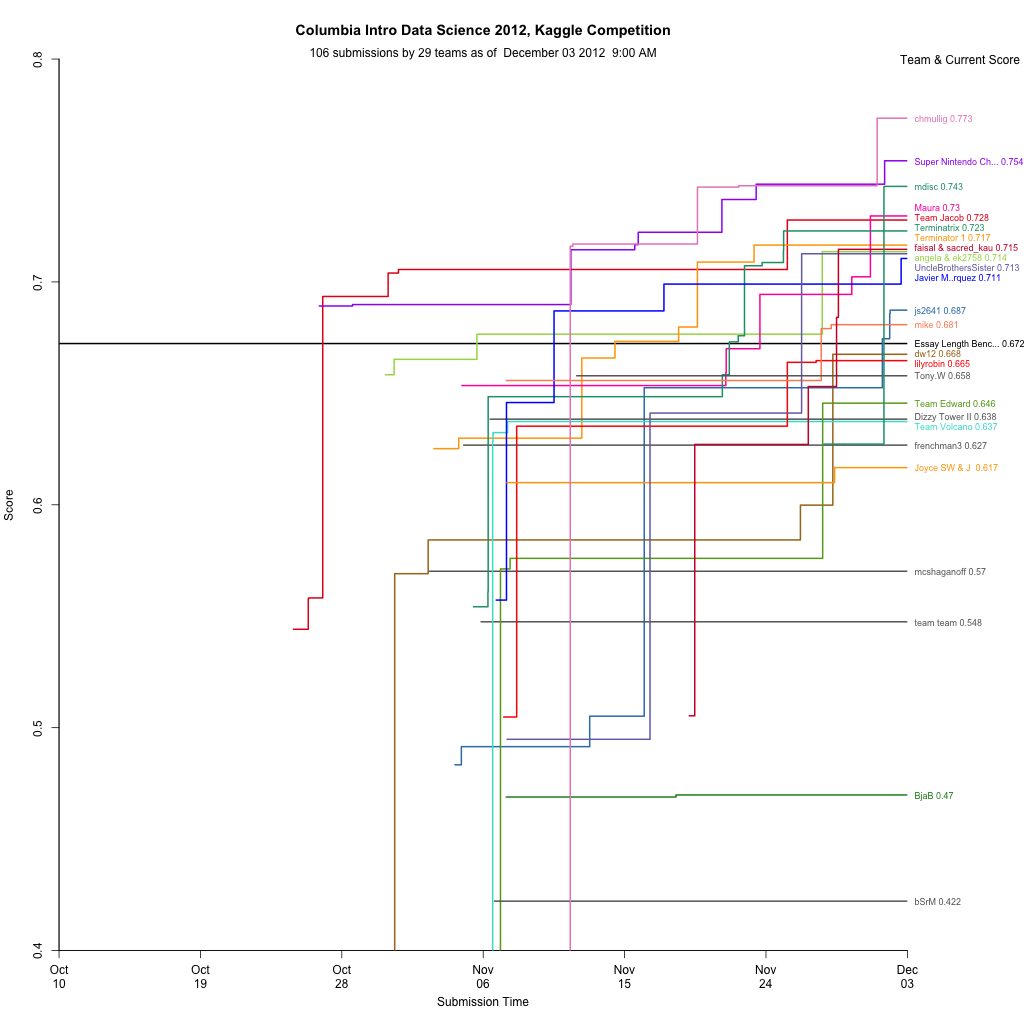
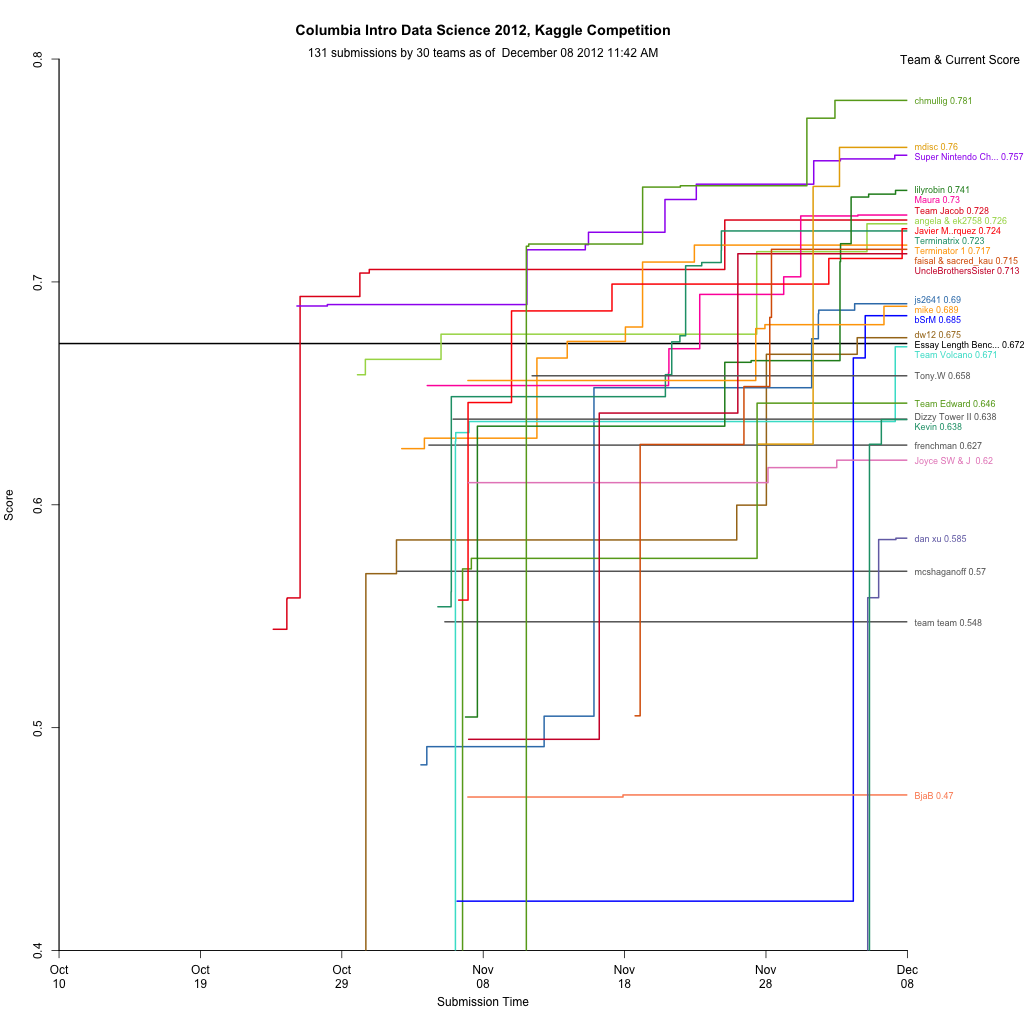
New TODO ideas. Grah updates. Add closeup.
A few ideas for TODO, since I can't/souldn't/won't
actually implement them right now.

Adding the closeup graph, since it's getting awfully crowded.

diff --git a/leaderGrabber.py b/leaderGrabber.py
@@ -31,6 +31,7 @@ def download_leaderboard():
 def makegraph():
     print '   -> creating graph with R'
     r = call(["Rscript", "makegraph.R"])
+    r = call(["Rscript", "makegraph_closeup.R"])
     resize = call(["sips", "--out", "datascience_leaderboard-150x150.png", "-Z", "150", "datascience_leaderboard.png"])
     resize = call(["sips", "--out", "datascience_leaderboard-640x640.png", "-Z", "640", "datascience_leaderboard.png"])
     print '   -> Graph ready'
@@ -40,6 +41,7 @@ def uploadgraph():
     scp = call(['scp', 'datascience_leaderboard.png',
                         'datascience_leaderboard-150x150.png',
                         'datascience_leaderboard-640x640.png',
+                        'datascience_leaderboard_closeup.png',
                         'chmullig.com:webapps/chmullig/wp-content/uploads/2012/11/'])
 
 
